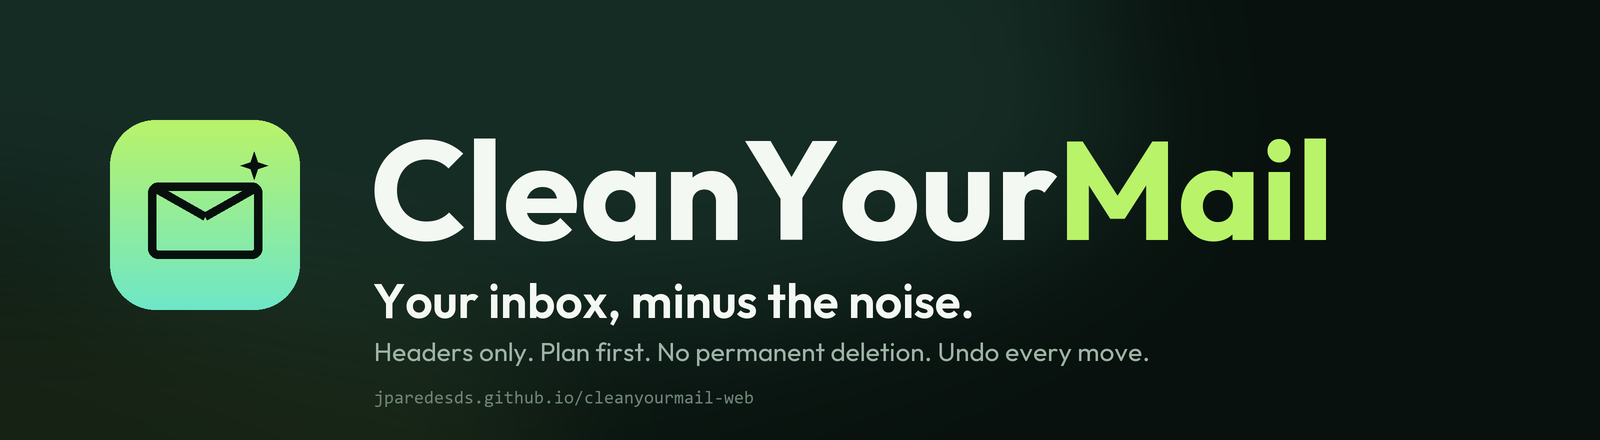
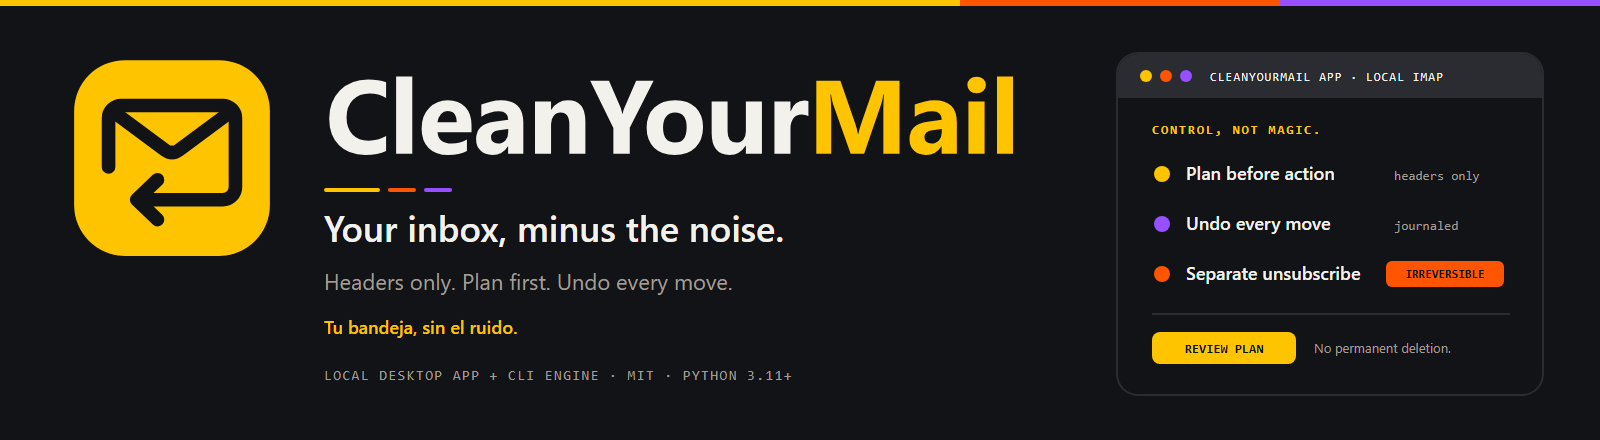
site: apply the Spectrum app-first brand
- Replace the header logo and favicon with the Return Fold mark.\n- Replace the banner and OG card with the Spectrum app-first assets.\n- Move the site to the carbon/yellow/orange/purple palette.\n- Use purple for journal/undo and orange for irreversible unsubscribe.\n- Color the Mail wordmark accent and update theme-color.\n- Update the website brand notes.\n\nTests: python -m unittest discover -s tests -v (16 OK).

diff --git a/es.html b/es.html
@@ -7,7 +7,7 @@
   <meta name="description" content="Limpieza de correo gratuita y open source para agentes y CLI. Funciona en local, lee solo cabeceras, protege lo importante, planifica primero y deshace movimientos.">
   <meta name="author" content="Jose Paredes">
   <meta name="robots" content="index,follow">
-  <meta name="theme-color" content="#07100d">
+  <meta name="theme-color" content="#121316">
   <meta name="color-scheme" content="dark">
   <meta name="referrer" content="strict-origin-when-cross-origin">
   <meta http-equiv="Content-Security-Policy" content="default-src 'self'; base-uri 'none'; object-src 'none'; form-action 'none'; img-src 'self' data:; style-src 'self'; script-src 'self' 'sha256-GIGHQXL5NifPfjhASnbZLm52C9TuvoQgaUKA5IEOH1M='; connect-src 'none'; font-src 'self'; upgrade-insecure-requests">
@@ -76,7 +76,7 @@
     <div class="container header-inner">
       <a class="brand" href="index.html" aria-label="CleanYourMail inicio">
         <img src="assets/logo.svg" alt="" width="32" height="32">
-        <span>CleanYourMail</span>
+        <span>CleanYour<span class="brand-accent">Mail</span></span>
       </a>
       <nav class="nav" aria-label="Principal">
         <a class="nav-start" href="#start">Empieza</a>
@@ -242,8 +242,8 @@
           <article class="command"><code>scan</code> <code>report</code><p>Lee cabeceras y revisa lo encontrado. Sin cambios en el correo.</p></article>
           <article class="command"><code>plan</code><p>Crea un plan revisable. Sin cambios en el correo.</p></article>
           <article class="command"><code>apply</code><p>Mueve un lote pequeño ya aprobado. Empieza con <code>--limit 5</code>.</p></article>
-          <article class="command"><code>journal</code> <code>undo</code><p>Revisa una ejecución y restaura sus movimientos.</p></article>
-          <article class="command"><code>unsubscribe</code><p>Independiente e irreversible. Envía solo solicitudes revisadas.</p></article>
+          <article class="command command-undo"><code>journal</code> <code>undo</code><p>Revisa una ejecución y restaura sus movimientos.</p></article>
+          <article class="command command-unsub"><code>unsubscribe</code><p>Independiente e irreversible. Envía solo solicitudes revisadas.</p></article>
         </div>
         <details class="all-commands">
           <summary>Todos los comandos</summary>
@@ -292,7 +292,7 @@
     <div class="container footer-inner">
       <div class="footer-brand">
         <img src="assets/logo.svg" alt="" width="26" height="26">
-        <span>CleanYourMail</span>
+        <span>CleanYour<span class="brand-accent">Mail</span></span>
       </div>
       <nav class="footer-nav" aria-label="Pie">
         <a href="https://github.com/jparedesDS/cleanyourmail" rel="noopener">GitHub</a>

diff --git a/styles.css b/styles.css
@@ -1,17 +1,17 @@
 :root {
-  --ink: #07100d;
-  --ink-2: #0a1511;
-  --panel: #0d1a15;
-  --panel-2: #11231b;
-  --text: #eef8ee;
-  --muted: #9eb4a7;
-  --muted-2: #6f8578;
-  --accent: #b9f36a;
-  --accent-2: #6ee7c8;
-  --pink: #f0a6c8;
-  --orange: #ffb86b;
-  --line: rgba(238, 248, 238, 0.12);
-  --line-strong: rgba(238, 248, 238, 0.2);
+  --ink: #121316;
+  --ink-2: #17181c;
+  --panel: #1b1c21;
+  --panel-2: #2a2c31;
+  --text: #f3f1ec;
+  --muted: #a19e96;
+  --muted-2: #8b8881;
+  --accent: #ffc400;
+  --accent-2: #9650ff;
+  --pink: #ffc400;
+  --orange: #ff5500;
+  --line: rgba(243, 241, 236, 0.12);
+  --line-strong: rgba(243, 241, 236, 0.2);
   --radius: 14px;
   --max: 1120px;
   --mono: "Cascadia Code", "SFMono-Regular", Consolas, "Liberation Mono", monospace;
@@ -26,8 +26,9 @@ body {
   margin: 0;
   color: var(--text);
   background:
-    radial-gradient(900px 520px at 78% -10%, rgba(110, 231, 200, 0.1), transparent 62%),
-    radial-gradient(700px 460px at 8% 16%, rgba(185, 243, 106, 0.06), transparent 60%),
+    radial-gradient(900px 520px at 78% -10%, rgba(255, 196, 0, 0.08), transparent 62%),
+    radial-gradient(700px 460px at 8% 16%, rgba(150, 80, 255, 0.07), transparent 60%),
+    radial-gradient(620px 420px at 50% 100%, rgba(255, 85, 0, 0.04), transparent 60%),
     var(--ink);
   font-family: var(--sans);
   font-size: 16px;
@@ -46,8 +47,8 @@ code {
   font-family: var(--mono);
   font-size: 0.9em;
   color: var(--accent);
-  background: rgba(185, 243, 106, 0.07);
-  border: 1px solid rgba(185, 243, 106, 0.14);
+  background: rgba(255, 196, 0, 0.08);
+  border: 1px solid rgba(255, 196, 0, 0.16);
   border-radius: 5px;
   padding: 0.08em 0.32em;
 }
@@ -113,6 +114,8 @@ button { font: inherit; }
 }
 
 .brand img { width: 32px; height: 32px; }
+
+.brand-accent { color: var(--accent); }
 
 .nav {
   display: flex;
@@ -480,6 +483,12 @@ h2 {
 
 .command code + code { margin-left: 6px; }
 
+.command-undo { border-left: 2px solid var(--accent-2); }
+.command-undo code { color: var(--accent-2); }
+
+.command-unsub { border-left: 2px solid var(--orange); }
+.command-unsub code { color: var(--orange); }
+
 .all-commands {
   margin-top: 18px;
   border-top: 1px solid var(--line);
@@ -612,7 +621,7 @@ h2 {
 
 .provider-grid {
   display: grid;
-  grid-template-columns: repeat(auto-fit, minmax(230px, 1fr));
+  grid-template-columns: repeat(4, minmax(0, 1fr));
   gap: 12px;
   margin: 28px 0 0;
   padding: 0;
@@ -797,6 +806,7 @@ h2 {
   .hero-grid { grid-template-columns: minmax(0, 1fr); gap: 36px; }
   .steps { grid-template-columns: 1fr; gap: 22px; }
   .command-grid { grid-template-columns: repeat(2, minmax(0, 1fr)); }
+  .provider-grid { grid-template-columns: repeat(2, minmax(0, 1fr)); }
   .hero { padding: 48px 0 44px; }
 }
 

diff --git a/index.html b/index.html
@@ -7,7 +7,7 @@
   <meta name="description" content="Free, open-source inbox cleanup for coding agents and the CLI. Runs locally, reads headers only, protects important mail, plans first and undoes every move.">
   <meta name="author" content="Jose Paredes">
   <meta name="robots" content="index,follow">
-  <meta name="theme-color" content="#07100d">
+  <meta name="theme-color" content="#121316">
   <meta name="color-scheme" content="dark">
   <meta name="referrer" content="strict-origin-when-cross-origin">
   <meta http-equiv="Content-Security-Policy" content="default-src 'self'; base-uri 'none'; object-src 'none'; form-action 'none'; img-src 'self' data:; style-src 'self'; script-src 'self' 'sha256-3POj6yu0mNaYIVmlOCtewK0YCbI3DySUpf/dDaWlAW4='; connect-src 'none'; font-src 'self'; upgrade-insecure-requests">
@@ -76,7 +76,7 @@
     <div class="container header-inner">
       <a class="brand" href="./" aria-label="CleanYourMail home">
         <img src="assets/logo.svg" alt="" width="32" height="32">
-        <span>CleanYourMail</span>
+        <span>CleanYour<span class="brand-accent">Mail</span></span>
       </a>
       <nav class="nav" aria-label="Main">
         <a class="nav-start" href="#start">Start</a>
@@ -242,8 +242,8 @@
           <article class="command"><code>scan</code> <code>report</code><p>Read headers and review what was found. No mail changes.</p></article>
           <article class="command"><code>plan</code><p>Create a reviewable plan. No mail changes.</p></article>
           <article class="command"><code>apply</code><p>Move an approved small batch. Start with <code>--limit 5</code>.</p></article>
-          <article class="command"><code>journal</code> <code>undo</code><p>Review a run, then restore its moves.</p></article>
-          <article class="command"><code>unsubscribe</code><p>Separate and irreversible. Send reviewed requests only.</p></article>
+          <article class="command command-undo"><code>journal</code> <code>undo</code><p>Review a run, then restore its moves.</p></article>
+          <article class="command command-unsub"><code>unsubscribe</code><p>Separate and irreversible. Send reviewed requests only.</p></article>
         </div>
         <details class="all-commands">
           <summary>All commands</summary>
@@ -292,7 +292,7 @@
     <div class="container footer-inner">
       <div class="footer-brand">
         <img src="assets/logo.svg" alt="" width="26" height="26">
-        <span>CleanYourMail</span>
+        <span>CleanYour<span class="brand-accent">Mail</span></span>
       </div>
       <nav class="footer-nav" aria-label="Footer">
         <a href="https://github.com/jparedesDS/cleanyourmail" rel="noopener">GitHub</a>

diff --git a/404.html b/404.html
@@ -15,7 +15,7 @@
     <div class="container header-inner">
       <a class="brand" href="index.html" aria-label="CleanYourMail home">
         <img src="assets/logo.svg" alt="" width="32" height="32">
-        <span>CleanYourMail</span>
+        <span>CleanYour<span class="brand-accent">Mail</span></span>
       </a>
     </div>
   </header>

diff --git a/README.md b/README.md
@@ -50,13 +50,20 @@ Open <http://localhost:8080/>.
 
 ## Brand assets
 
-The website uses the **dark editorial** direction (`assets/banner.png`). The skill repository uses
-the terminal-first variant.
+The website uses the app-first **Spectrum** direction: carbon canvas `#121316`, yellow `#FFC400`
+Return Fold, purple `#9650FF` journal/undo and orange `#FF5500` attention. The primary brand package
+lives in the skill repository at `brand/final-spectrum/`; the Forest/Lime palette is kept as the
+classic CLI alternate in `brand/final/`.
 
-- `assets/brand/banner-web.png` — chosen for the website and this repository.
-- `assets/brand/banner-skill.png` — chosen for the skill repository.
-- `assets/brand/banner-light.png` — light “paper” alternate.
-- `assets/brand/social-web.png`, `assets/brand/social-skill.png` — 1280×640 social previews.
+The files in `assets/brand/` are earlier Forest/Lime explorations kept for reference.
+
+- `assets/banner.png` — current 1600×440 Spectrum repository banner.
+- `assets/og.png` — current 1280×640 Spectrum social card.
+- `assets/logo.svg`, `assets/favicon.svg` — current Return Fold mark.
+- `assets/brand/banner-web.png` — earlier Forest/Lime website banner.
+- `assets/brand/banner-skill.png` — earlier Forest/Lime skill banner.
+- `assets/brand/banner-light.png` — earlier light “paper” alternate.
+- `assets/brand/social-web.png`, `assets/brand/social-skill.png` — earlier 1280×640 social previews.
 
 ## Release sync
 
